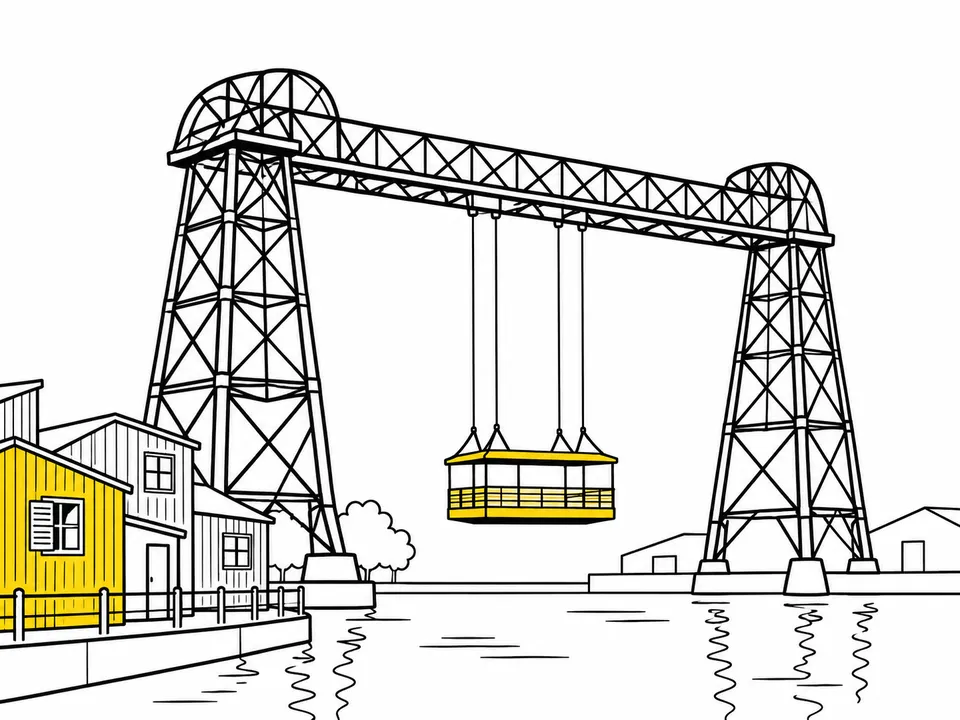
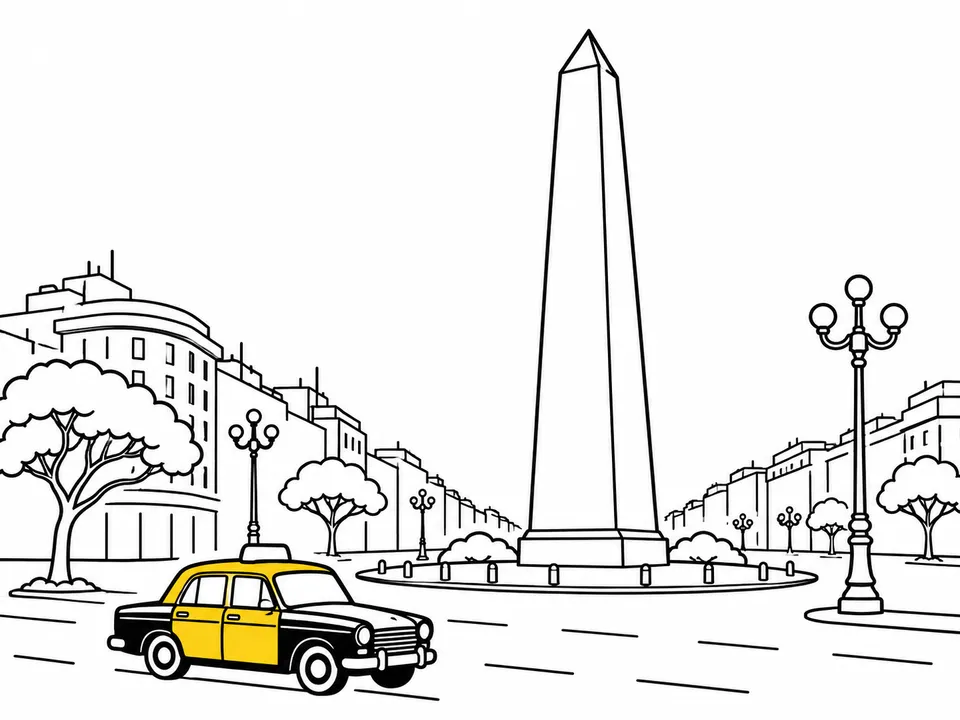
feat: open the map on Renti, swap in the Obelisco and drop the footer photo

Changed region(s): [[0.0, 0.0306, 1.0, 1.0], [0.9375, 0.9167, 0.9688, 0.9472]]

diff --git a/es/index.html b/es/index.html
@@ -95,15 +95,15 @@
     </section>
 
     <section class="container section journey" id="historia" aria-labelledby="path-title" data-reveal>
-      <h2 class="section-head reveal-item" id="path-title" data-station>Dos ciudades, dos puentes</h2>
+      <h2 class="section-head reveal-item" id="path-title" data-station>Dos ciudades, una ruta</h2>
       <div class="journey-row reveal-item">
         <div class="journey-text">
           <h3 data-station>Todo empezó en Buenos Aires</h3>
           <p>Estudié Ciencias de la Computación en la Universidad de Buenos Aires y pasé mis primeros años construyendo mapas, sistemas de depósitos y las conexiones entre ellos.</p>
         </div>
         <figure class="plate">
-          <img src="../assets/img/illustrations/buenos-aires.webp" width="960" height="720" alt="Dibujo en línea del Puente Transbordador sobre el Riachuelo, en La Boca, con su barquilla en amarillo" loading="lazy">
-          <figcaption>Puente Transbordador, La Boca</figcaption>
+          <img src="../assets/img/illustrations/buenos-aires.webp" width="960" height="720" alt="Dibujo en línea del Obelisco sobre la Avenida 9 de Julio con un taxi porteño negro y amarillo" loading="lazy">
+          <figcaption>Obelisco, Avenida 9 de Julio</figcaption>
         </figure>
       </div>
       <div class="journey-row journey-row-flip reveal-item">
@@ -154,8 +154,7 @@
   <footer class="night band" id="contacto" data-reveal>
     <div class="container contact">
       <div class="contact-head reveal-item">
-        <img class="contact-photo" data-route-end src="../assets/img/leandro.jpg" width="880" height="880" alt="Leandro Iannotti" loading="lazy">
-        <h2 class="section-head">Un café en Auckland o una llamada desde cualquier lugar</h2>
+        <h2 class="section-head" data-route-end>Un café en Auckland o una llamada desde cualquier lugar</h2>
       </div>
       <a class="email reveal-item" href="mailto:leandro.iannotti@gmail.com">leandro.iannotti@gmail.com</a>
       <ul class="elsewhere reveal-item">

diff --git a/index.html b/index.html
@@ -95,15 +95,15 @@
     </section>
 
     <section class="container section journey" id="path" aria-labelledby="path-title" data-reveal>
-      <h2 class="section-head reveal-item" id="path-title" data-station>Two cities, two bridges</h2>
+      <h2 class="section-head reveal-item" id="path-title" data-station>Two cities, one route</h2>
       <div class="journey-row reveal-item">
         <div class="journey-text">
           <h3 data-station>Buenos Aires is where it started</h3>
           <p>I studied Computer Science at the University of Buenos Aires and spent my first years building maps, warehouse systems and the links between them.</p>
         </div>
         <figure class="plate">
-          <img src="assets/img/illustrations/buenos-aires.webp" width="960" height="720" alt="Line drawing of the Puente Transbordador over the Riachuelo in La Boca, its hanging gondola in yellow" loading="lazy">
-          <figcaption>Puente Transbordador, La Boca</figcaption>
+          <img src="assets/img/illustrations/buenos-aires.webp" width="960" height="720" alt="Line drawing of the Obelisco on Avenida 9 de Julio with a black and yellow Buenos Aires taxi" loading="lazy">
+          <figcaption>Obelisco, Avenida 9 de Julio</figcaption>
         </figure>
       </div>
       <div class="journey-row journey-row-flip reveal-item">
@@ -154,8 +154,7 @@
   <footer class="night band" id="contact" data-reveal>
     <div class="container contact">
       <div class="contact-head reveal-item">
-        <img class="contact-photo" data-route-end src="assets/img/leandro.jpg" width="880" height="880" alt="Leandro Iannotti" loading="lazy">
-        <h2 class="section-head">Coffee in Auckland, or a call from anywhere</h2>
+        <h2 class="section-head" data-route-end>Coffee in Auckland, or a call from anywhere</h2>
       </div>
       <a class="email reveal-item" href="mailto:leandro.iannotti@gmail.com">leandro.iannotti@gmail.com</a>
       <ul class="elsewhere reveal-item">

diff --git a/assets/css/site.css b/assets/css/site.css
@@ -152,7 +152,6 @@ h1, h2, h3 { font-weight: 600; letter-spacing: var(--tracking-display); line-hei
 .night { --color-focus: var(--color-accent); background: var(--color-night); color: var(--color-night-ink); }
 .contact { padding-block: var(--section-gap-s) var(--space-2xl); display: grid; gap: var(--space-xl); }
 .contact-head { display: flex; align-items: center; gap: var(--space-lg); }
-.contact-photo { width: var(--avatar); height: var(--avatar); flex-shrink: 0; object-fit: cover; border-radius: var(--radius-pill); }
 .contact .section-head { max-width: 16ch; }
 .email { font-family: var(--font-display); font-weight: 600; font-size: var(--text-email); letter-spacing: var(--tracking-display); line-height: 1.1; text-decoration: underline; text-decoration-thickness: 2px; text-underline-offset: 0.18em; white-space: nowrap; justify-self: start; transition: color var(--dur-short) var(--ease-out); }
 .email:hover { color: var(--color-accent); }
@@ -209,7 +208,6 @@ h1, h2, h3 { font-weight: 600; letter-spacing: var(--tracking-display); line-hei
   .control { padding-inline: var(--space-sm); }
   .principles { grid-template-columns: minmax(0, 1fr); }
   .hero h1 { max-width: 14ch; }
-  .contact-head { align-items: flex-start; flex-direction: column; }
   .now-poplar { grid-template-columns: minmax(0, 1fr); padding: var(--space-lg); }
   .poplar-mark { width: var(--poplar-mark-s); }
 }

diff --git a/assets/js/map.js b/assets/js/map.js
@@ -245,7 +245,7 @@
     if (animate) send(i);
   }
 
-  function selectNode(id) {
+  function selectNode(id, { animate = true } = {}) {
     const related = connections.map((c, i) => (c.from === id || c.to === id ? i : -1)).filter((i) => i >= 0);
     if (!related.length) return;
     current = related[0];
@@ -256,7 +256,7 @@
     });
     paint(related, touched);
     show(current);
-    related.forEach((i, n) => window.setTimeout(() => send(i), n * 180));
+    if (animate) related.forEach((i, n) => window.setTimeout(() => send(i), n * 180));
   }
 
   function reveal() {
@@ -321,16 +321,19 @@
     return duration;
   }
 
+  // Open on the present: Renti, the latest stop, with both of its connections lit.
+  const HOME = "rental";
+
   map.classList.add("is-ready");
   panel.hidden = false;
   layout();
   new ResizeObserver(layout).observe(map);
-  select(0, { animate: false });
+  selectNode(HOME, { animate: false });
 
   const ready = document.fonts ? document.fonts.ready : Promise.resolve();
   ready.then(() => {
     layout();
     const drawn = drawIn();
-    window.setTimeout(() => send(0), drawn + 300);
+    window.setTimeout(() => selectNode(HOME), drawn + 300);
   });
 })();
